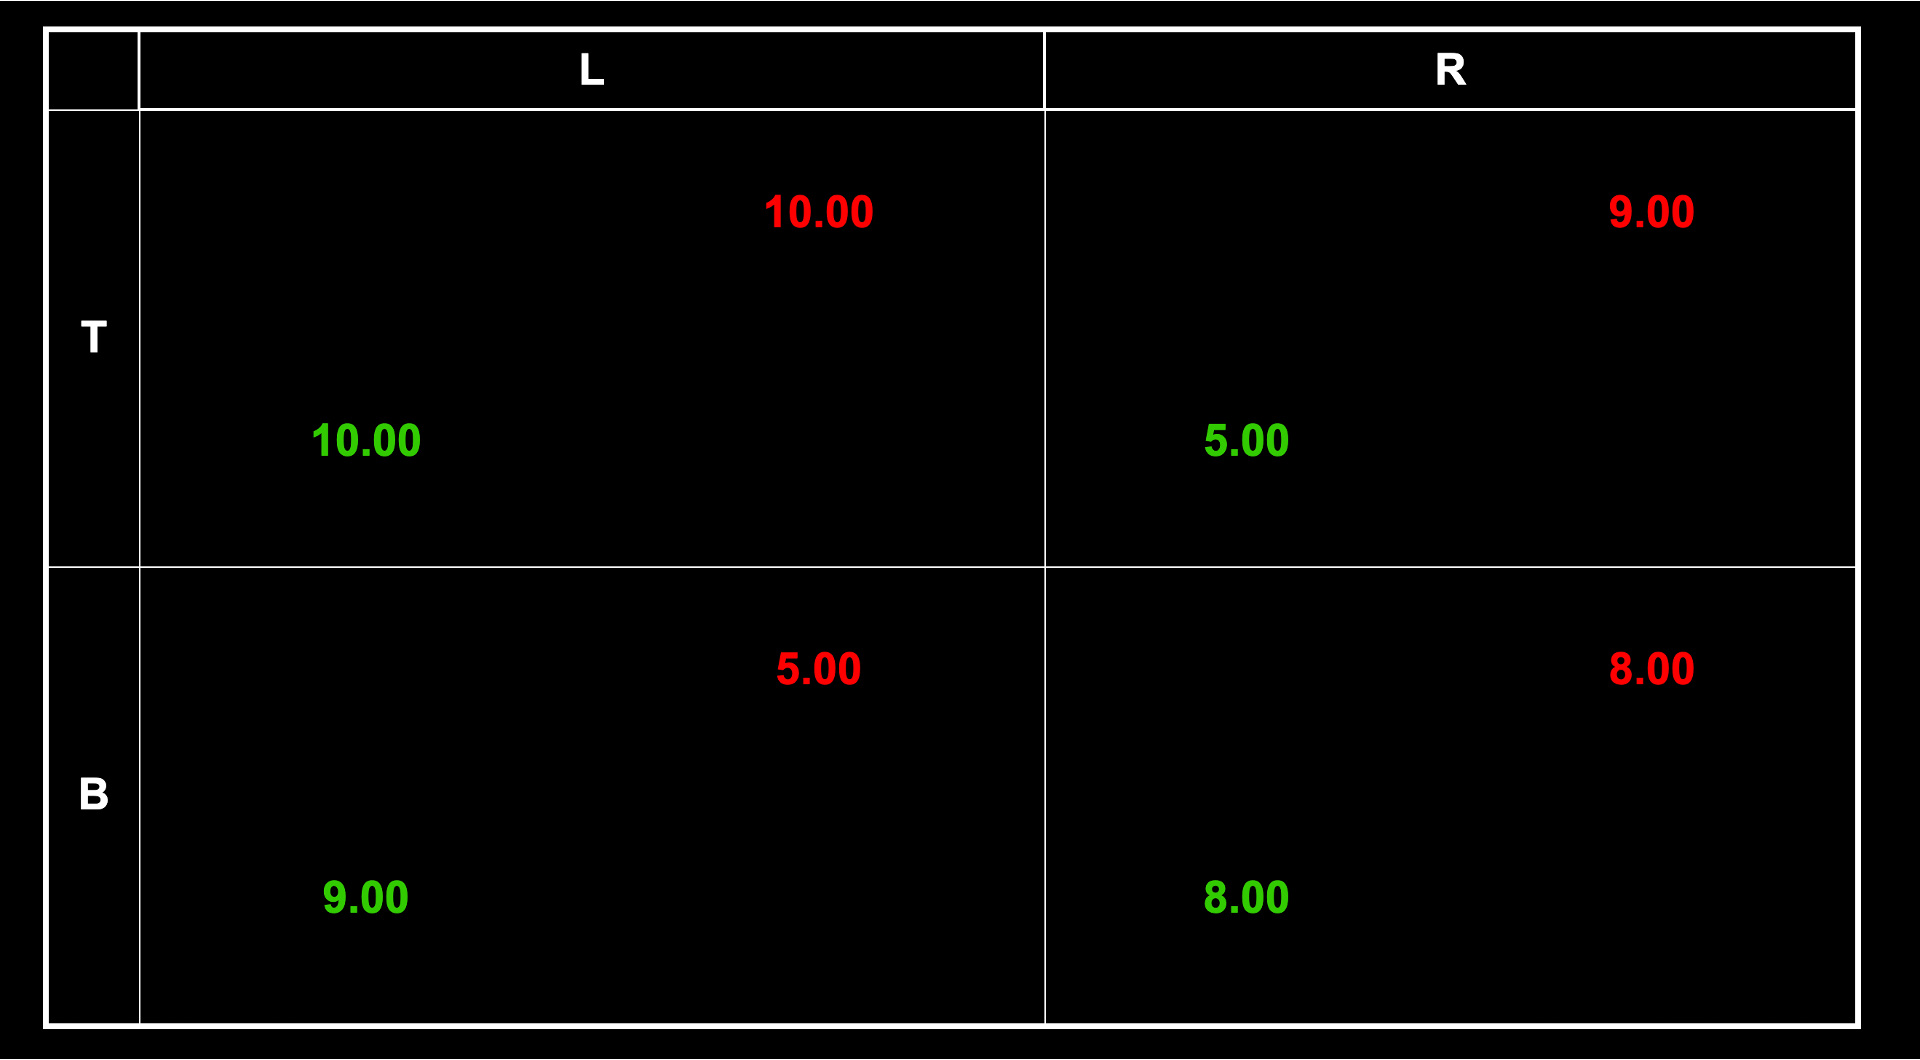
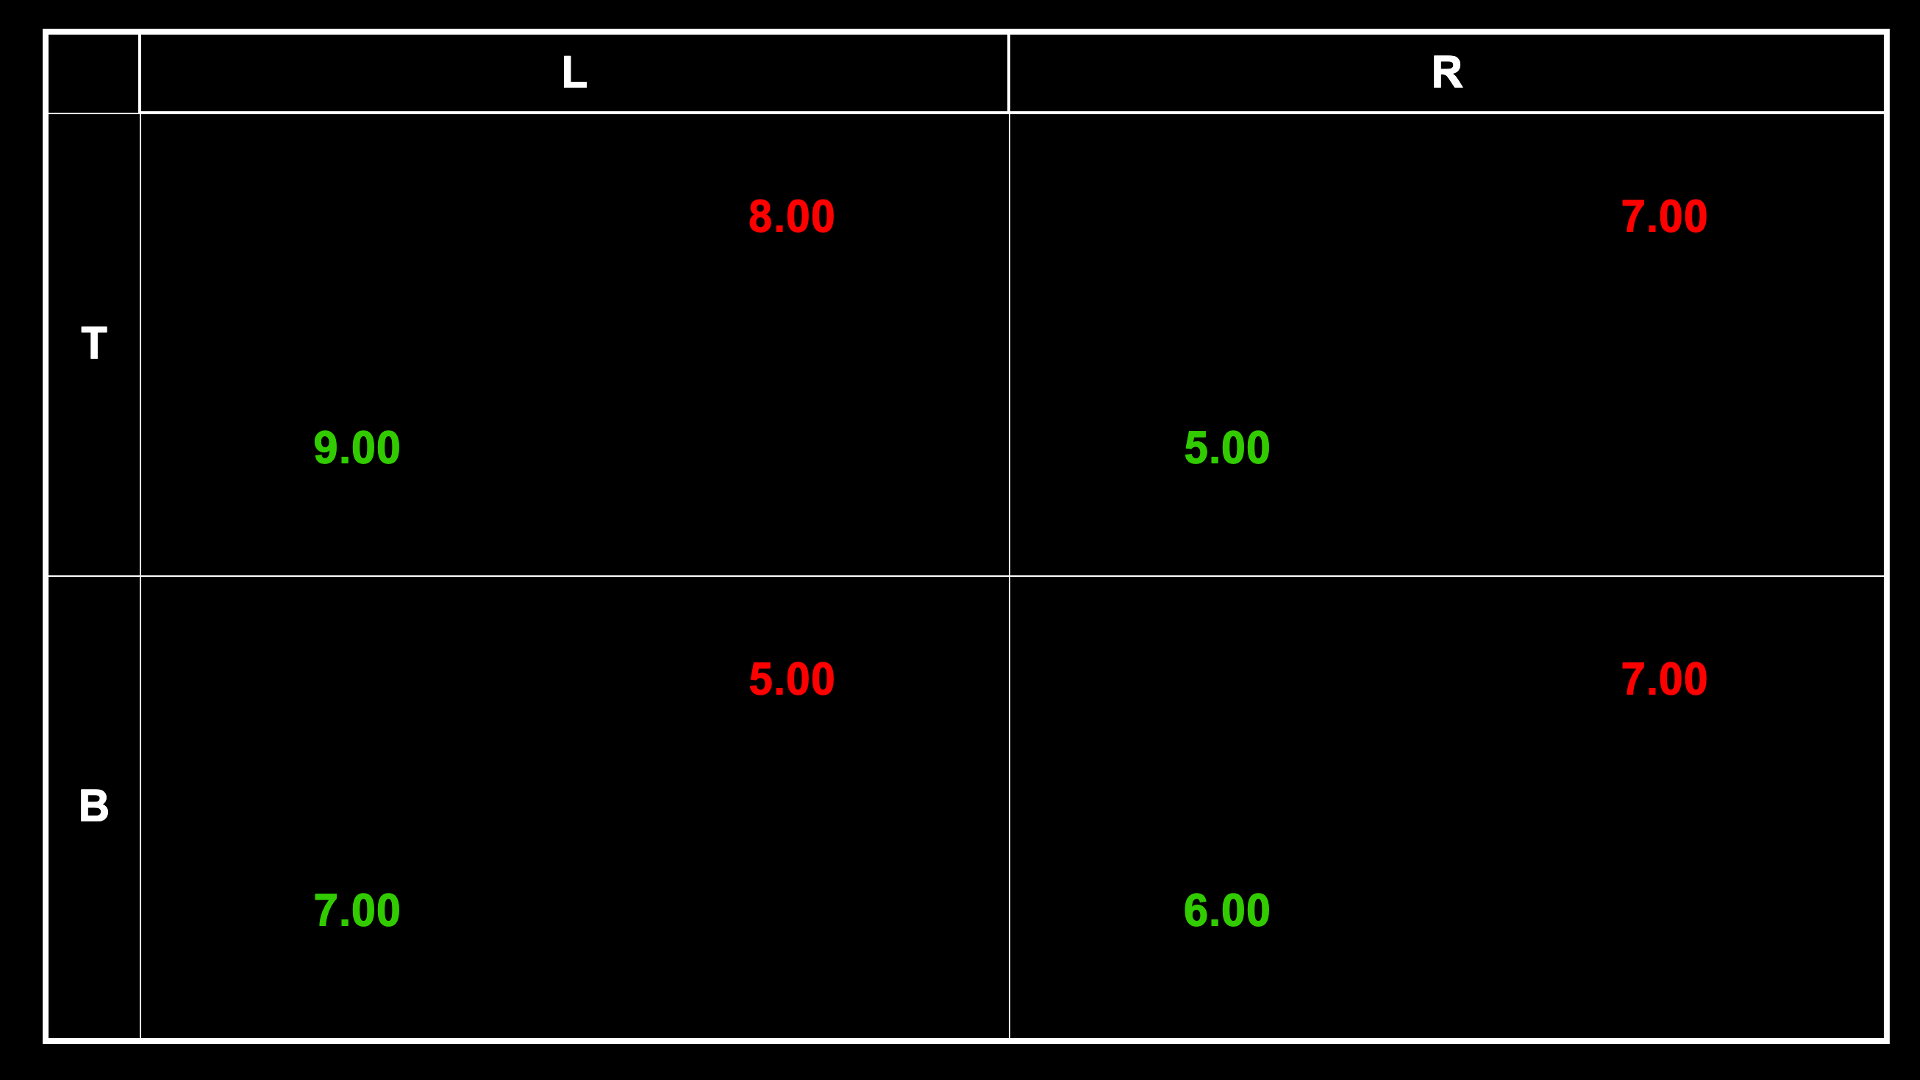
control question images changed

diff --git a/public/js/coordination_game.js b/public/js/coordination_game.js
@@ -390,7 +390,7 @@ function getGameMatrixTrial(choice_count, reshapedPayoff, randDisplayOrder){
 function getAnswersChoiceQuiz(choice_quiz_data){
     var nCorrect = 0;
     var responses = choice_quiz_data[0].responses.slice(1,choice_quiz_data[0].responses.length-1).split(',');
-    var correctAnswers = ["10","10","9","5","TRUE","TRUE"];
+    var correctAnswers = ["9","8","7","5","TRUE","TRUE"];
     for(var i = 0; i < responses.length; i++){
         if(responses[i].includes(correctAnswers[i])){
             nCorrect = nCorrect + 1;
@@ -451,22 +451,22 @@ var choiceInstructions = {
 }
 
 // quiz about the choice task
-var question_choice_1_options = ["10",
-                        "9",
+var question_choice_1_options = ["5",
+                        "7",
                         "8",
-                        "5"];
-var question_choice_2_options = ["10",
-                        "9",
+                        "9"];
+var question_choice_2_options = ["6",
+                        "7",
                         "8",
-                        "5"];
-var question_choice_3_options = ["10",
-                        "9",
-                        "8",
-                        "5"];
-var question_choice_4_options = ["10",
-                        "9",
-                        "8",
-                        "5"];
+                        "9"];
+var question_choice_3_options = ["5",
+                        "6",
+                        "7",
+                        "8"];
+var question_choice_4_options = ["5",
+                        "6",
+                        "7",
+                        "8"];
 var question_choice_5_options = ["TRUE",
                         "FALSE"];
 var question_choice_6_options = ["TRUE",
